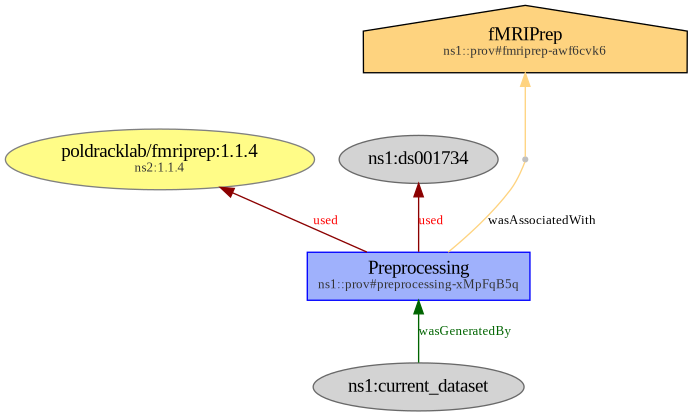
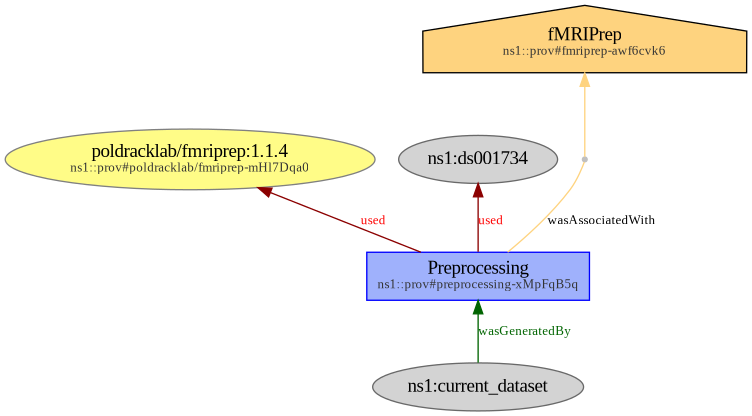
AlternativeIdentifier for Environments

diff --git a/provenance_fmriprep/README.md b/provenance_fmriprep/README.md
@@ -80,7 +80,6 @@ In this case, the `GeneratedBy` field of the `dataset_description.json` file cou
 
 ```JSON
 {
-    ...
     "GeneratedBy": [
         {
           "Name": "fMRIPrep",
